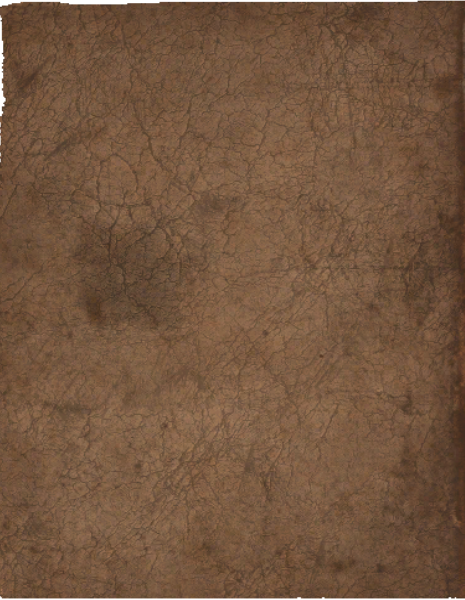
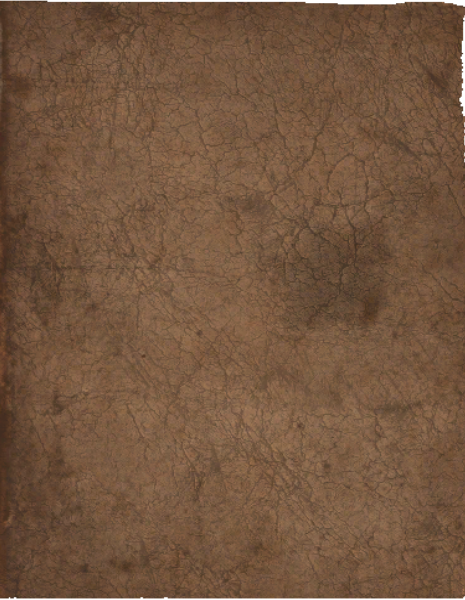
Actual templates

diff --git a/scripts/run.js b/scripts/run.js
@@ -1,4 +1,4 @@
-// The book data (Starts from first page (left hand side))
+// The book data (Starts from first page (right hand side))
 var KronoriumSource = {
     0 : [
         { date: "April 11th 1945", event: "Richtofen had a thing which did a thing and then the thing ended!" },
@@ -9,12 +9,15 @@ var KronoriumSource = {
     ]
 };
 
+// General rule of thumb: Format so we have a left and a right page before the end, so it looks natural.
 
 $(document).ready(function()
 {
     // Inject pages based on the template
-    $('#kronorium').append('<div style="background-image:url(images/binding_front.png)"></div>');
-    // Current page type (left / right)
+    $('#kronorium').append('<div class="hard" style="background-image:url(images/binding_front.png)"></div>');
+    // Actual binding
+    $('#kronorium').append('<div class="hard" style="background-image:url(images/binding_front.png)"></div>');
+    // Current page type (right, then left) (0, 1)
     var PageType = 0;
     // Loop through book data
     for (var page in KronoriumSource)
@@ -22,11 +25,11 @@ $(document).ready(function()
         var BuiltSource = '';
         // Determine page side
         if (PageType == 0) {
-            BuiltSource += '<div style="background-image:url(images/page_left.png)"><div class="kron-base-left">';
+            BuiltSource += '<div style="background-image:url(images/page_right.png)"><div class="kron-base-right">';
             PageType = 1;
         }
         else {
-            BuiltSource += '<div style="background-image:url(images/page_right.png)"><div class="kron-base-right">';
+            BuiltSource += '<div style="background-image:url(images/page_left.png)"><div class="kron-base-left">';
             PageType = 0;
         }
         // Build events
@@ -40,19 +43,14 @@ $(document).ready(function()
         $('#kronorium').append(BuiltSource + '</div></div>');
     }
     // Backing
-    $('#kronorium').append('<div style="background-image:url(images/binding_end.png)"></div>');
+    $('#kronorium').append('<div class="hard" style="background-image:url(images/binding_end.png)"></div>');
     // Initialize the book
     $("#kronorium").turn(
     {
-			// Width
-			width: 922,
-			// Height
-			height: 600,
-			// Elevation (Height of page flip)
-			elevation: 50,
-			// Enable gradients (fading)
-			gradients: true,
-			// Auto center this flipbook
-			autoCenter: true
+        width: 922,
+        height: 600,
+        elevation: 50,
+        gradients: false,
+        autoCenter: true
 	});
 });

diff --git a/index.html b/index.html
@@ -12,7 +12,7 @@
             </div>
         </div>
         <!-- Include scripts -->
-        <script src="//ajax.googleapis.com/ajax/libs/jquery/1.12.4/jquery.min.js"></script>
+        <script src="https://ajax.googleapis.com/ajax/libs/jquery/1.12.4/jquery.min.js"></script>
         <script src="scripts/turn.min.js"></script>
         <script src="scripts/run.js"></script>
     </body>
